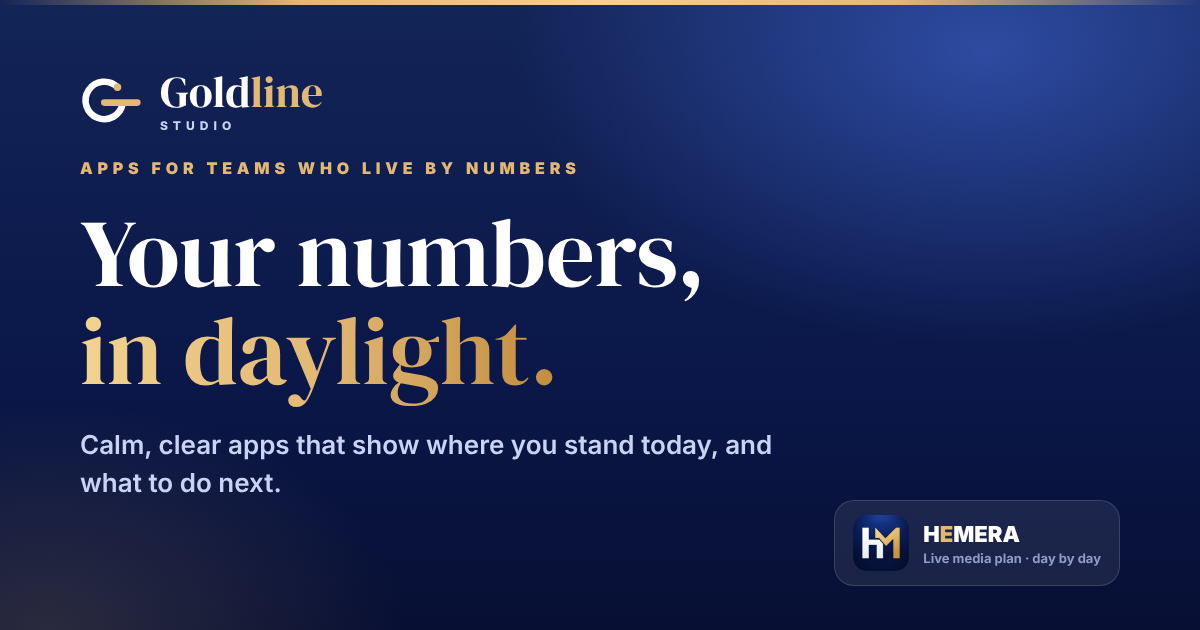
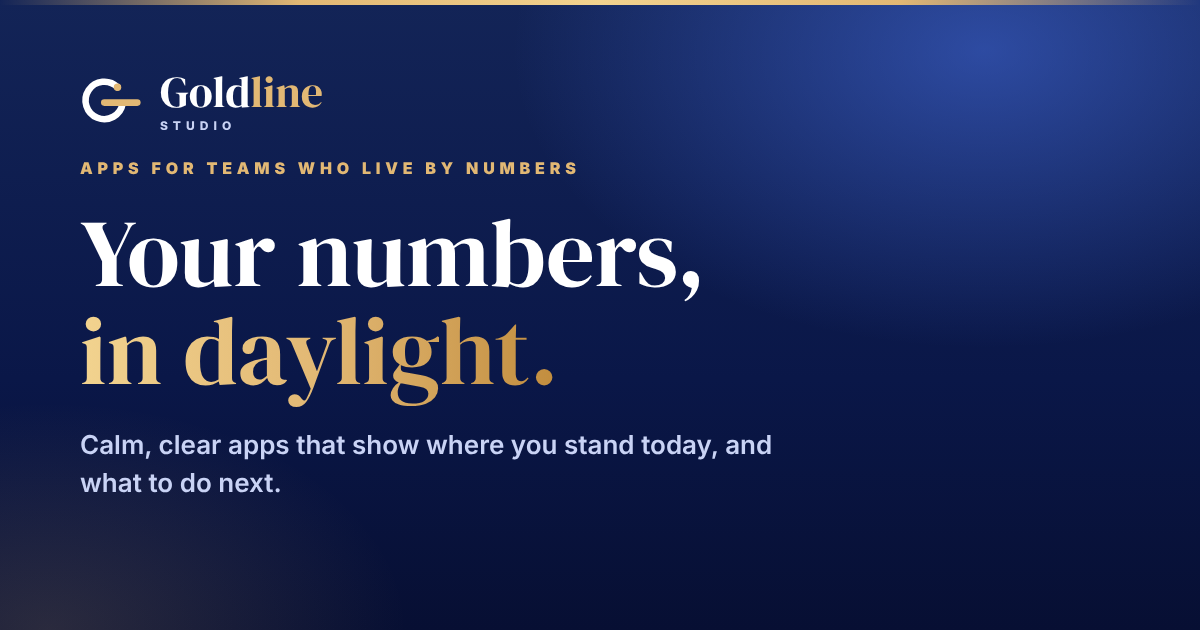
Goldline share image without the HEMERA card, so it stays right as apps are added
Claude-Session: https://claude.ai/code/session_01M72xkkZKEdziHXBkDeLETA

Changed region(s): [[0.7092, 0.8143, 0.925, 0.9048]]

diff --git a/goldline/index.html b/goldline/index.html
@@ -64,13 +64,13 @@ footer a{color:inherit;text-decoration:none}footer a:hover{color:#fff}footer{mar
 <meta property="og:url" content="https://sekna-app.web.app/goldline/">
 <meta property="og:title" content="Goldline Studio">
 <meta property="og:description" content="Your numbers, in daylight. Calm, clear apps for teams who live by numbers.">
-<meta property="og:image" content="https://sekna-app.web.app/goldline/og.png">
+<meta property="og:image" content="https://sekna-app.web.app/goldline/og.png?v=2">
 <meta property="og:image:width" content="1200">
 <meta property="og:image:height" content="630">
 <meta name="twitter:card" content="summary_large_image">
 <meta name="twitter:title" content="Goldline Studio">
 <meta name="twitter:description" content="Your numbers, in daylight. Calm, clear apps for teams who live by numbers.">
-<meta name="twitter:image" content="https://sekna-app.web.app/goldline/og.png">
+<meta name="twitter:image" content="https://sekna-app.web.app/goldline/og.png?v=2">
 </head>
 <body>
 <div class="wrap">
